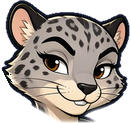
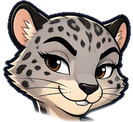
Captain Stella Comet redrawn: two arms, ray gun raised, helmet at her hip
Remade through the Grok art queue (job 183) from her previous picture, so the
face, suit, cape and tail are the same and only the arms changed. The old art
had a gun hand behind her shoulder that read as a third arm.

Re-cut and re-rigged: new head outline, chest centre and picture size, and the
painted-in neck is now trimmed to the neck's real width (NECK in hero_cut.py)
so nothing dark shows when her head tilts. Web card, thumbnail, puppet parts,
DragonBones rig and the desktop pet copies all replaced. Asset version bumped.

Claude-Session: https://claude.ai/code/session_01MKsZvYnMVUP17zjeeAuUE4

diff --git a/dashtest.html b/dashtest.html
@@ -4,8 +4,8 @@
 <meta charset="utf-8"><meta name="viewport" content="width=device-width,initial-scale=1">
 <title>Dashboard mockup · OverSummoned</title>
 <meta name="robots" content="noindex,nofollow">
-<link rel="stylesheet" href="/css/os.css?v=1126c">
-<link rel="stylesheet" href="/css/dash.css?v=1126c">
+<link rel="stylesheet" href="/css/os.css?v=1126d">
+<link rel="stylesheet" href="/css/dash.css?v=1126d">
 </head>
 <body class="dashbody">
 <header class="gbar"><div class="wrap">
@@ -15,7 +15,7 @@
     <span title="Ink"><img src="/assets/v2/loot/x_ink.webp" alt="Ink"><b id="r-ink">0</b></span>
     <span title="Gold"><img src="/assets/v2/loot/x_gold.webp" alt="Gold"><b id="r-gold">12,480</b></span>
     <button class="fbbtn" type="button">Ideas or feedback?</button>
-    <button class="avatar"><img src="/assets/v2/smudge/stamp.webp?v=1126c" alt=""></button>
+    <button class="avatar"><img src="/assets/v2/smudge/stamp.webp?v=1126d" alt=""></button>
   </div>
 </div></header>
 
@@ -122,7 +122,7 @@
 </main>
 
 <script src="/js/vendor/dragonBones.core.min.js"></script>
-<script src="/js/dbcanvas.js?v=1126c"></script>
-<script src="/js/dashtest.js?v=1126c"></script>
+<script src="/js/dbcanvas.js?v=1126d"></script>
+<script src="/js/dashtest.js?v=1126d"></script>
 </body>
 </html>

diff --git a/maptest.html b/maptest.html
@@ -1,7 +1,7 @@
 <!doctype html><html lang="en"><head><meta charset="utf-8"><meta name="viewport" content="width=device-width,initial-scale=1">
 <title>Map test · OverSummoned</title><meta name="robots" content="noindex,nofollow"><link rel="stylesheet" href="/css/os.css?v=1126a"></head>
 <body><main class="wrap" style="padding:1.5rem 0"><h1 style="font-size:1.6rem">Map test (made-up visitors)</h1><div class="panel" style="margin-top:1rem"><div class="geomap" id="m"></div></div></main>
-<script src="/js/geomap.js?v=1126c"></script><script>
+<script src="/js/geomap.js?v=1126d"></script><script>
 const P=[['US','Melbourne',28.1,-80.6,14],['US','New York',40.7,-74,9],['US','Los Angeles',34.1,-118.2,6],['GB','London',51.5,-0.1,8],['DE','Berlin',52.5,13.4,4],['BR','Sao Paulo',-23.5,-46.6,3],['JP','Tokyo',35.7,139.7,5],['AU','Sydney',-33.9,151.2,4],['IN','Mumbai',19.1,72.9,2],['ZA','Cape Town',-33.9,18.4,1],['CA','Toronto',43.7,-79.4,3],['FR','Paris',48.9,2.4,2]];
 const places=P.map(p=>({country:p[0],city:p[1],lat:p[2],lon:p[3],visitors:p[4],views:p[4]*3}));
 GeoMap.mount(document.getElementById('m'),{places,recent:places.slice(0,8).map((p,i)=>({...p,path:['/','/heroes','/desktop-pet','/story'][i%4],at:new Date(Date.now()-i*420000).toISOString()}))});

diff --git a/js/os.js b/js/os.js
@@ -3,7 +3,7 @@ window.OS = (function () {
   const A = '/assets/v2/';
   const OS = { R: null, rig: null, voice: null, items: {}, heroes: {} };
 
-  OS.VER = '?v=1126c';   // bump when art or data changes, so browsers drop their cached copies
+  OS.VER = '?v=1126d';   // bump when art or data changes, so browsers drop their cached copies
   OS.load = async function () {
     const [R, rig, voice] = await Promise.all(['rules', 'rig', 'voice'].map(n => fetch('/data/' + n + '.json' + OS.VER).then(r => r.json())));
     OS.R = R; OS.rig = rig; OS.voice = voice; OS.items = R.items;

diff --git a/admin.html b/admin.html
@@ -56,5 +56,5 @@
 </main>
 <div class="tip" id="ctip"></div><div class="toast" id="toast"></div>
 <script src="https://cdn.jsdelivr.net/npm/@supabase/supabase-js@2.45.0/dist/umd/supabase.min.js"></script>
-<script src="/js/cloud.js"></script><script src="/js/os.js"></script><script src="/js/geomap.js?v=1126c"></script><script src="/js/admin.js"></script>
+<script src="/js/cloud.js"></script><script src="/js/os.js"></script><script src="/js/geomap.js?v=1126d"></script><script src="/js/admin.js"></script>
 </body></html>

diff --git a/js/dashtest.js b/js/dashtest.js
@@ -1,7 +1,7 @@
 // Dashboard mockup: fake numbers, but the live bits are live — the rigs move, the bars fill,
 // the sparkline is drawn, and the haul timer runs. Nothing here touches a save.
 (function () {
-  const $ = id => document.getElementById(id), V = '?v=1126c';
+  const $ = id => document.getElementById(id), V = '?v=1126d';
 
   // ---- the desk: Smudge at work with a crew of three, on the scene he is working
   const scene = $('scene'), crew = $('crew');

diff --git a/rules/hero_cut.py b/rules/hero_cut.py
@@ -11,6 +11,7 @@ import cutlib
 from cutlib import poly, cut_head, save, crumbs, ROOT
 
 HP = os.path.join(ROOT, 'art2', 'hpuppet')
+NECK = {'stella': (190, 238)}   # id: (left, right) of the neck in the hero's picture
 
 
 def tables():
@@ -37,6 +38,9 @@ def run(ids=None):
         soft = [(x0, bottom - 16), (x1, bottom - 16), (x1, bottom + 12), (x0, bottom + 12)]
         fill = [(x0, bottom - 46), (x1, bottom - 46), (x1, bottom + 12), (x0, bottom + 12)]
         head = cut_head(a, base, [tuple(p) for p in pts], soft=soft, fill=fill)
+        if hid in NECK:   # the painted-in neck is trimmed to the neck's real width, so no dark wings show when the head tilts
+            lo, hi = NECK[hid]; m = poly(a, [tuple(p) for p in pts]) & (base[..., 3] > 0); xx = np.arange(a.shape[1])[None, :]
+            base[..., 3][m & ((xx < lo) | (xx > hi))] = 0
         parts.append(dict(name='head', mode='front', pivot=list(pivot), offset=save(head, pose, 'head')))
         crumbs(base)
         Image.fromarray(base, 'RGBA').save(os.path.join(HP, pose + '_base.png'))

diff --git a/rules/heropup.py b/rules/heropup.py
@@ -34,7 +34,7 @@ HEADS = {  # id: (head polygon, neck pivot)
  "vesper": ([(55, 0), (245, 0), (250, 110), (215, 150), (190, 175), (140, 175), (105, 150), (60, 110)], (165, 168)),
  "roxy": ([(95, 0), (300, 0), (300, 110), (255, 160), (225, 180), (180, 175), (140, 150), (100, 120)], (205, 170)),
  "jazzmin": ([(95, 0), (240, 0), (245, 100), (225, 150), (190, 175), (140, 175), (110, 140), (95, 90)], (165, 170)),
- "stella": ([(135,0),(275,0),(278,70),(255,105),(235,122),(195,122),(160,100),(140,60)], (215,118)),
+ "stella": ([(128,0),(268,0),(268,72),(254,100),(232,121),(196,121),(163,111),(126,94)], (212,116)),
  "pam": ([(80, 0), (275, 0), (278, 110), (250, 150), (200, 172), (150, 170), (105, 145), (85, 100)], (175, 165)),
  "gorm": ([(135, 95), (305, 95), (305, 180), (280, 230), (250, 255), (200, 255), (165, 225), (140, 170)], (215, 245)),
  "flap": ([(135, 0), (335, 0), (345, 60), (325, 110), (318, 170), (290, 205), (230, 215), (170, 205), (140, 150)], (240, 205)),

diff --git a/rules/dbexport.py b/rules/dbexport.py
@@ -73,7 +73,7 @@ def grid(w, h, origin, NX, NY, weigh):
 
 
 # Soft secondary motion on the pin-up heroes: (centre x, centre y, radius) of the bust in the hero's picture.
-CHEST = {'cleocatra': (228, 240, 28), 'astrid': (205, 215, 30), 'bella': (155, 215, 26), 'lola': (272, 205, 28), 'troffea': (206, 240, 24), 'vesper': (190, 225, 24), 'roxy': (230, 215, 24), 'jazzmin': (195, 235, 24), 'stella': (215, 172, 22)}
+CHEST = {'cleocatra': (228, 240, 28), 'astrid': (205, 215, 30), 'bella': (155, 215, 26), 'lola': (272, 205, 28), 'troffea': (206, 240, 24), 'vesper': (190, 225, 24), 'roxy': (230, 215, 24), 'jazzmin': (195, 235, 24), 'stella': (228, 172, 22)}
 
 # Other soft spots on a hero's body picture that move without being cut out (so no seams, ever):
 # (bone name, centre x, centre y, radius x, radius y, kind).  kind: 'sway' rocks, 'bob' rides up and down.
